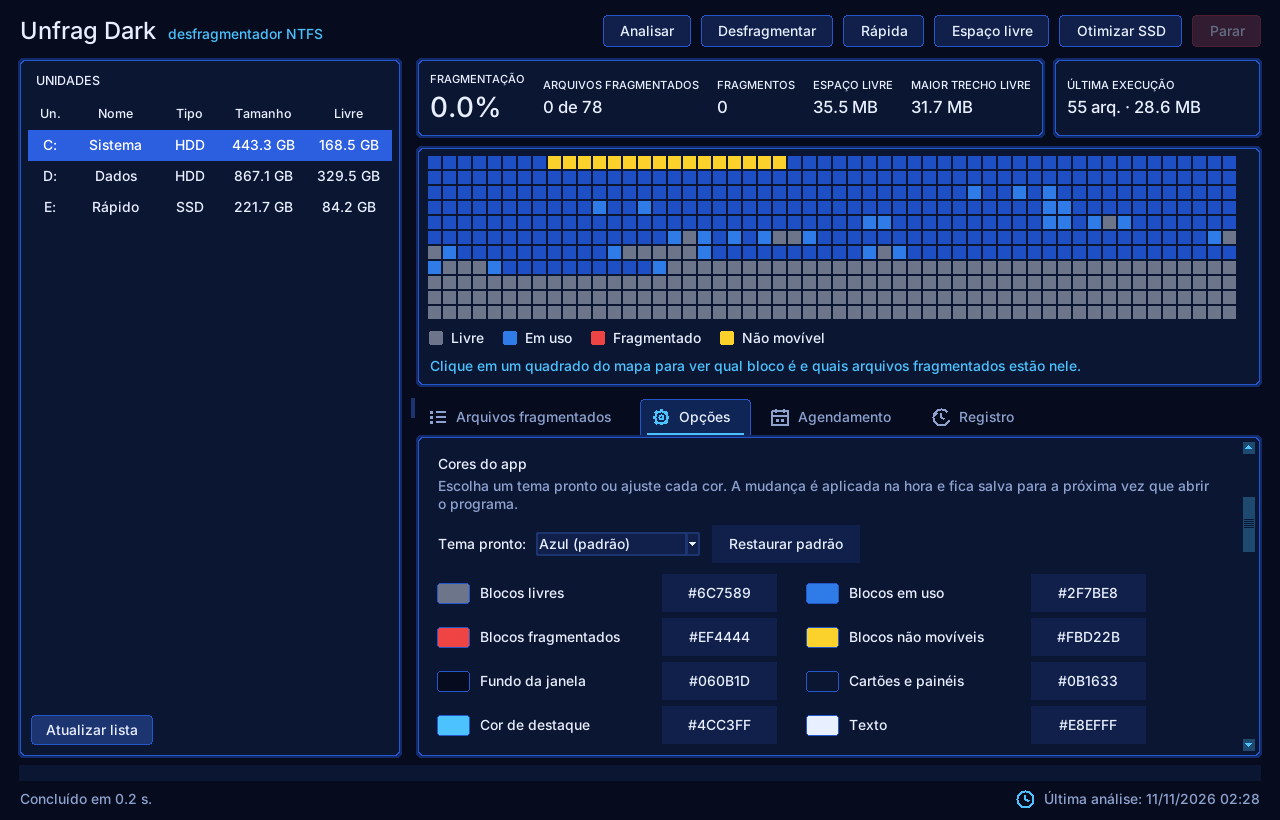
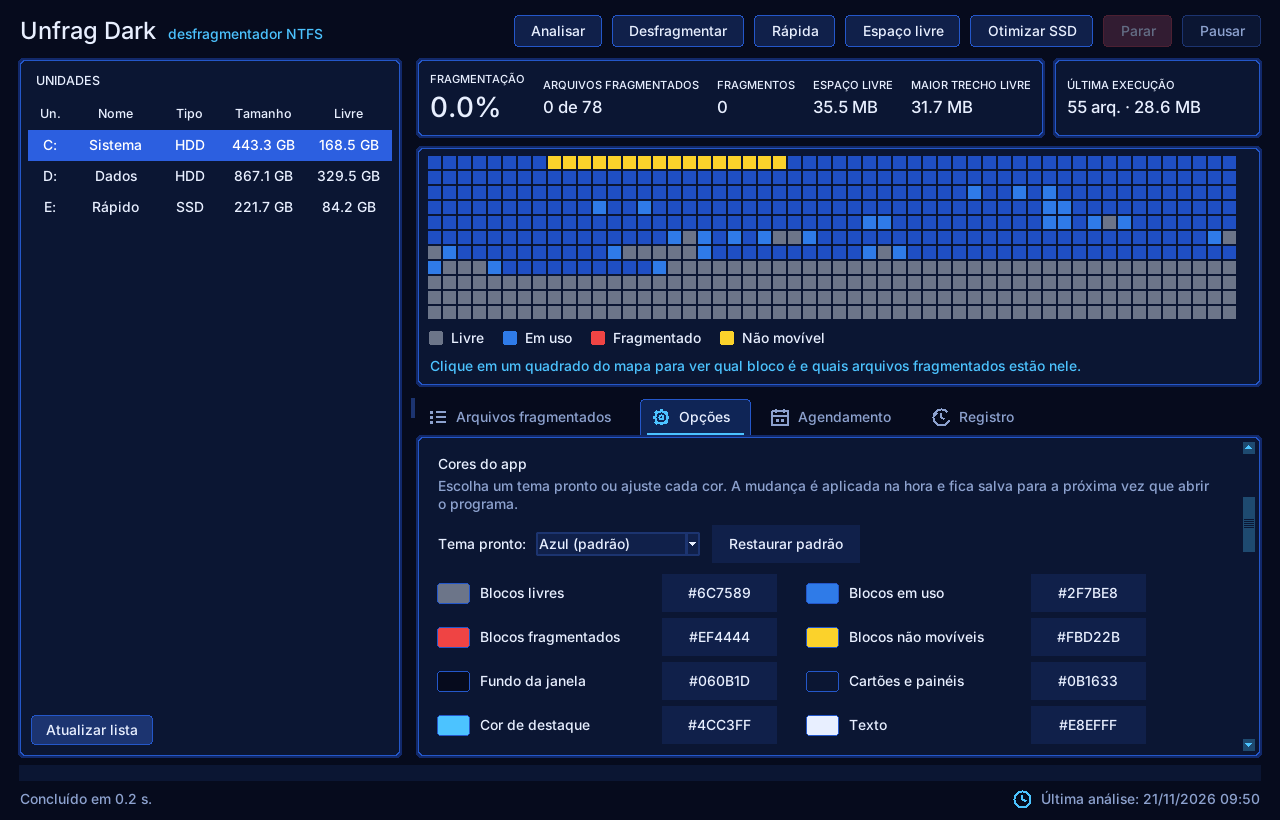
Tempo restante, Pausar/Retomar, tarefa de inicialização e release automática; v0.4.0
Claude-Session: https://claude.ai/code/session_01HBMELiZvNgmfTNszBkAw8x

Changed region(s): [[0.375, 0.0, 1.0, 0.061], [0.7812, 0.9451, 0.9062, 1.0]]

diff --git a/src/unfrag/gui.py b/src/unfrag/gui.py
@@ -16,7 +16,7 @@ from .backends import IS_WINDOWS, list_drives, open_volume
 from .engine import Cancelled, Engine, Options, Report, SsdSkipped, TrimNotApplicable
 from .model import AnalysisResult, DriveInfo
 from .single import SingleInstance, show_already_running
-from .system import load_last_run, MAX_THREADS, auto_threads, fmt_bytes, guard_reason, load_settings, save_settings, shutdown_soon
+from .system import Eta, load_last_run, MAX_THREADS, auto_threads, fmt_bytes, guard_reason, load_settings, save_settings, shutdown_soon
 from .resources import resource_path
 from .tray import Tray
 from . import widgets
@@ -333,6 +333,9 @@ class App:
         self.demo = demo or not IS_WINDOWS
         self.q: "queue.Queue[tuple]" = queue.Queue()
         self.cancel = threading.Event()
+        self.pause = threading.Event()
+        self.eta = Eta()
+        self._paused_at = 0.0
         self.worker: Optional[threading.Thread] = None
         self.engine: Optional[Engine] = None
         self.drives: Dict[str, DriveInfo] = {}
@@ -642,6 +645,11 @@ class App:
             self.btns.append(b)
         self.btn_stop = PillButton(bar, "Parar", command=self.stop, kind="danger", bg=C["bg"], state="disabled")
         self.btn_stop.pack(side="left")
+        self.btn_pause = PillButton(bar, "Pausar", command=self.toggle_pause, bg=C["bg"], state="disabled")
+        self.btn_pause.pack(side="left", padx=(8, 0))
+        ToolTip(self.btn_pause, "Pausar / Retomar",
+                "Segura a operação no próximo ponto seguro, sem desfazer nada; Retomar continua de onde parou. "
+                "Parar continua funcionando durante a pausa.")
 
         if IS_WINDOWS and not self.demo:
             from .backends.windows import is_admin
@@ -999,6 +1007,10 @@ class App:
         for b in self.btns:
             b.configure(state="disabled" if busy else "normal")
         self.btn_stop.configure(state="normal" if busy else "disabled")
+        self.btn_pause.configure(state="normal" if busy else "disabled")
+        if not busy:
+            self.pause.clear()
+            self.btn_pause.configure(text="Pausar")
         self.tree.configure(selectmode="none" if busy else "browse")
 
     # --- execução ----------------------------------------------------------
@@ -1077,6 +1089,7 @@ class App:
         prev_engine, eng = self.engine, None
         try:
             eng = Engine(vol, progress=prog, cancel=self.cancel)
+            eng.pause = self.pause
             if mode == "trim":  # não analisa nem mexe no mapa que já está na tela
                 self.q.put(("trim_done", eng.trim()))
             else:
@@ -1104,7 +1117,20 @@ class App:
             vol.close()
             self.q.put(("done",))
 
+    def toggle_pause(self) -> None:
+        if self.pause.is_set():
+            self.pause.clear()
+            self.eta.shift(time.monotonic() - self._paused_at)
+            self.btn_pause.configure(text="Pausar")
+            self.v_status.set("Retomando…")
+        else:
+            self.pause.set()
+            self._paused_at = time.monotonic()
+            self.btn_pause.configure(text="Retomar")
+            self.v_status.set("Pausado. Clique em Retomar para continuar.")
+
     def stop(self) -> None:
+        self.pause.clear()  # sai da pausa para o cancelamento ser percebido
         self.cancel.set()
         self.v_status.set("Parando após a operação atual…")
 
@@ -1131,7 +1157,8 @@ class App:
                     self.progress.stop()
                     self.progress.configure(mode="determinate")
                 self.progress.configure(value=100.0 * done / max(1, total), maximum=100)
-                self.v_status.set("%s: %d/%d  %s" % (label, done, total, msg[-70:]))
+                eta = self.eta.text(phase, done, total)
+                self.v_status.set("%s: %d/%d  %s%s" % (label, done, total, msg[-70:], "  ·  " + eta if eta else ""))
             else:
                 self.v_status.set("%s: %d arquivos…" % (label, done))
             self._tray_title(self.v_status.get())

diff --git a/tests/test_v04.py b/tests/test_v04.py
@@ -1,0 +1,61 @@
+import threading
+import time
+
+from unfrag import scheduler
+from unfrag.backends.fake import FakeVolume
+from unfrag.engine import Engine
+from unfrag.system import Eta, fmt_duration
+
+
+def test_fmt_duration():
+    assert fmt_duration(5) == "5 s"
+    assert fmt_duration(125) == "2 min 05 s"
+    assert fmt_duration(3 * 3600 + 120) == "3 h 02 min"
+
+
+def test_eta_estimates_and_ignores_pause():
+    t = [0.0]
+    eta = Eta(clock=lambda: t[0])
+    assert eta.text("defrag", 0, 100) == ""          # sem dados ainda
+    t[0] = 10.0
+    assert eta.text("defrag", 25, 100) == "~30 s restantes"   # 10 s para 25% -> 30 s
+    t[0] = 110.0
+    eta.shift(100.0)                                 # 100 s de pausa não contam
+    assert eta.text("defrag", 25, 100) == "~30 s restantes"
+    assert eta.text("compact", 50, 100) == ""        # fase nova recomeça a contagem
+    assert eta.text("compact", 100, 100) == ""       # terminou
+
+
+def test_pause_blocks_then_resumes_and_stop_works_while_paused():
+    eng = Engine(FakeVolume(1000))
+    eng.pause.set()
+    done = threading.Event()
+
+    def run():
+        eng._check_cancel()
+        done.set()
+
+    th = threading.Thread(target=run, daemon=True)
+    th.start()
+    time.sleep(0.3)
+    assert not done.is_set()          # pausado: espera
+    eng.pause.clear()
+    th.join(2)
+    assert done.is_set()              # retomado: segue
+
+    eng.pause.set()
+    eng.cancel.set()                  # Parar durante a pausa precisa funcionar
+    try:
+        eng._check_cancel()
+        raised = False
+    except Exception as exc:
+        raised = type(exc).__name__ == "Cancelled"
+    assert raised
+
+
+def test_boot_task_runs_as_system_without_time():
+    a = scheduler.build_create_args("c:", "quick", "inicialização", "03:00")
+    assert a[a.index("/SC") + 1] == "ONSTART"
+    assert "/ST" not in a and a[a.index("/RU") + 1] == "SYSTEM"
+    assert a[a.index("/TN") + 1].endswith("C-onstart")
+    assert scheduler.build_delete_args("C", "inicialização")[-1].endswith("C-onstart")

diff --git a/src/unfrag/cli.py b/src/unfrag/cli.py
@@ -12,13 +12,14 @@ from . import __version__, scheduler
 from .backends import IS_WINDOWS, list_drives, open_volume
 from .engine import Engine, Options, Report, SsdSkipped, TrimNotApplicable
 from .model import AnalysisResult
-from .system import MAX_THREADS, auto_threads, fmt_bytes, guard_reason, shutdown_soon
+from .system import Eta, MAX_THREADS, auto_threads, fmt_bytes, guard_reason, shutdown_soon
 
 PHASES = {"scan": "Analisando", "defrag": "Desfragmentando", "compact": "Compactando espaço livre",
           "toend": "Movendo arquivos grandes para o fim", "trim": "Otimizando (TRIM)"}
 
 
 _last_progress = [0.0]
+_eta = Eta()
 
 
 def _progress(phase: str, done: int, total: int, msg: str) -> None:
@@ -30,6 +31,9 @@ def _progress(phase: str, done: int, total: int, msg: str) -> None:
     _last_progress[0] = now
     label = PHASES.get(phase, phase)
     tail = msg[-48:] if msg else ""
+    eta = _eta.text(phase, done, total)
+    if eta:
+        tail = ("%s · %s" % (eta, tail))[:48]
     cnt = "%d/%d" % (done, total) if total else ("" if phase == "trim" else str(done))
     sys.stdout.write("\r%-34s %-12s %-48s" % (label, cnt, tail))
     sys.stdout.flush()
@@ -343,7 +347,8 @@ def build_parser() -> argparse.ArgumentParser:
     s = sub.add_parser("schedule", help="cria/remove tarefa agendada (Windows)")
     s.add_argument("action", choices=["create", "delete"])
     s.add_argument("drive")
-    s.add_argument("--frequency", choices=["diária", "semanal", "mensal"], default="semanal")
+    s.add_argument("--frequency", choices=list(scheduler.FREQUENCIES), default="semanal",
+                   help="inicialização = ao ligar o Windows, antes de os programas abrirem arquivos")
     s.add_argument("--time", default="03:00", help="HH:MM")
     s.add_argument("--mode", choices=list(scheduler.MODES), default="quick",
                    help="trim = otimização de SSD (use em SSD no lugar da desfragmentação)")

diff --git a/src/unfrag/system.py b/src/unfrag/system.py
@@ -4,6 +4,7 @@ from __future__ import annotations
 import json
 import os
 import subprocess
+import time
 import sys
 from typing import Iterable, Optional
 
@@ -121,3 +122,34 @@ def load_last_run() -> dict:
         return data if isinstance(data, dict) else {}
     except (OSError, ValueError):
         return {}
+
+
+class Eta:
+    """Estimativa de tempo restante de uma fase (média desde o início da fase; pausas não contam)."""
+
+    def __init__(self, clock=time.monotonic):
+        self._clock = clock
+        self._phase = None
+        self._t0 = 0.0
+
+    def text(self, phase: str, done: int, total: int) -> str:
+        now = self._clock()
+        if phase != self._phase:
+            self._phase, self._t0 = phase, now
+        if not total or done <= 0 or done >= total or now - self._t0 < 3:
+            return ""  # sem dados suficientes para estimar
+        left = (now - self._t0) / done * (total - done)
+        return "~%s restantes" % fmt_duration(left)
+
+    def shift(self, seconds: float) -> None:
+        """Desconta um período em que a operação ficou pausada."""
+        self._t0 += seconds
+
+
+def fmt_duration(sec: float) -> str:
+    sec = int(round(sec))
+    if sec < 60:
+        return "%d s" % sec
+    if sec < 3600:
+        return "%d min %02d s" % divmod(sec, 60)
+    return "%d h %02d min" % (sec // 3600, sec % 3600 // 60)

diff --git a/src/unfrag/scheduler.py b/src/unfrag/scheduler.py
@@ -9,7 +9,8 @@ from typing import List
 from .system import NO_WINDOW
 
 TASK_FOLDER = "UnfragDark"
-FREQUENCIES = {"diária": "DAILY", "semanal": "WEEKLY", "mensal": "MONTHLY"}
+FREQUENCIES = {"diária": "DAILY", "semanal": "WEEKLY", "mensal": "MONTHLY", "inicialização": "ONSTART"}
+# ONSTART roda na inicialização do Windows, antes de os programas do usuário abrirem arquivos
 MODES = ("quick", "defrag", "freespace", "trim")  # trim = otimização de SSD (sem mover arquivos)
 _LETTER = re.compile(r"^[A-Za-z]$")
 _TIME = re.compile(r"^([01]?\d|2[0-3]):[0-5]\d$")
@@ -47,6 +48,9 @@ def build_create_args(letter: str, mode: str, frequency: str, time_hhmm: str,
         cmd = "%s trim %s: --skip-battery --notify" % (_app_command(), drive)
     else:
         cmd = "%s defrag %s: --mode %s --skip-battery --notify %s" % (_app_command(), drive, mode, extra)
+    if sc == "ONSTART":  # sem horário; como SYSTEM; espera 2 min para o Windows terminar de subir
+        return ["schtasks", "/Create", "/F", "/TN", task_name(letter, frequency), "/SC", sc, "/DELAY", "0002:00",
+                "/RU", "SYSTEM", "/RL", "HIGHEST", "/TR", cmd.strip()]
     return ["schtasks", "/Create", "/F", "/TN", task_name(letter, frequency), "/SC", sc,
             "/ST", time_hhmm, "/RL", "HIGHEST", "/TR", cmd.strip()]
 

diff --git a/src/unfrag/engine.py b/src/unfrag/engine.py
@@ -94,6 +94,7 @@ class Engine:
         self.backend = backend
         self.progress = progress
         self.cancel = cancel or threading.Event()
+        self.pause = threading.Event()  # set = pausado; a operação espera no próximo ponto seguro
         self.chunk = chunk
         self.files: Dict[str, FileInfo] = {}
         self.free = FreeMap()
@@ -109,6 +110,8 @@ class Engine:
             self.progress(phase, done, total, msg)
 
     def _check_cancel(self) -> None:
+        while self.pause.is_set() and not self.cancel.is_set():
+            time.sleep(0.1)  # pausado: espera sem mover nada; Parar continua funcionando
         if self.cancel.is_set():
             raise Cancelled()
 

diff --git a/src/unfrag/__init__.py b/src/unfrag/__init__.py
@@ -1,3 +1,3 @@
 """Unfrag Dark - desfragmentador NTFS de código aberto com tema escuro."""
 
-__version__ = "0.3.2"
+__version__ = "0.4.0"

diff --git a/README.md b/README.md
@@ -75,8 +75,11 @@ unfrag --demo defrag C: --mode freespace
 | Só executar se a fragmentação for ≥ X% | ✔ | `--min-frag 10` |
 | Não executar na bateria / se certos programas estiverem abertos | ✔ | `--skip-battery` / `--exclude app.exe` |
 | Desligar o PC ao terminar | ✔ | `--shutdown` |
-| Agendamento diário/semanal/mensal (Agendador de Tarefas do Windows), inclusive o TRIM de SSD | **Agendamento** | `unfrag schedule create C:` / `--mode trim` |
+| Agendamento diário/semanal/mensal/na inicialização (Agendador de Tarefas do Windows), inclusive o TRIM de SSD | **Agendamento** | `unfrag schedule create C:` / `--mode trim` |
 | Parar a qualquer momento, com cancelamento seguro | **Parar** | `Ctrl+C` |
+| **Pausar e retomar** a operação sem desfazer nada (o Parar continua valendo durante a pausa) | **Pausar / Retomar** | — |
+| **Tempo restante estimado** durante a análise e a desfragmentação (pausas não contam) | ✔ | ✔ |
+| **Tarefa ao ligar o Windows** (antes de os programas abrirem arquivos): desfragmenta arquivos que ficam travados com o sistema em uso | **Agendamento → inicialização** | `unfrag schedule create C: --frequency inicialização` |
 | Bandeja do sistema: fechar a janela mantém o trabalho rodando; o ícone muda de cor (laranja = trabalhando, verde = concluído, vermelho = erro) | Opções | — |
 | Iniciar com o Windows, minimizado na bandeja | Opções | — |
 | Aviso do Windows ao terminar tarefas agendadas | automático | `--notify` |
@@ -91,6 +94,10 @@ Cada botão tem uma explicação (passe o mouse sobre ele) e cada opção tem um
 **SSD ou HDD?** Em HDD a desfragmentação reduz o movimento da cabeça e acelera o disco. Em SSD ela não ajuda e
 só gasta a vida útil da unidade; o certo é o **TRIM** (botão *Otimizar SSD* ou `unfrag trim`), que o próprio
 Windows também faz na "Otimização de unidades".
+
+> **Sobre a tarefa de inicialização:** ela roda como SYSTEM 2 minutos depois do boot. Arquivos que o próprio
+> Windows mantém fixos pela API (como `pagefile.sys` e a MFT) continuam não movíveis; um desfragmentador de
+> boot de verdade, em modo nativo antes do Windows subir, não existe nesta versão.
 
 ## Como funciona
 
@@ -242,3 +249,8 @@ funcionalidades) e [`docs/CLEAN-ROOM.md`](docs/CLEAN-ROOM.md).
 ## Licença
 
 MIT. Veja [LICENSE](LICENSE).
+
+## Releases automáticas
+
+Ao subir na `main` uma versão nova em `pyproject.toml`, o workflow `build` compila os `.exe`, gera o
+`SHA256SUMS.txt` e publica a release `vX.Y.Z` sozinho (se ela ainda não existir). Empurrar uma tag `v*` também funciona.
